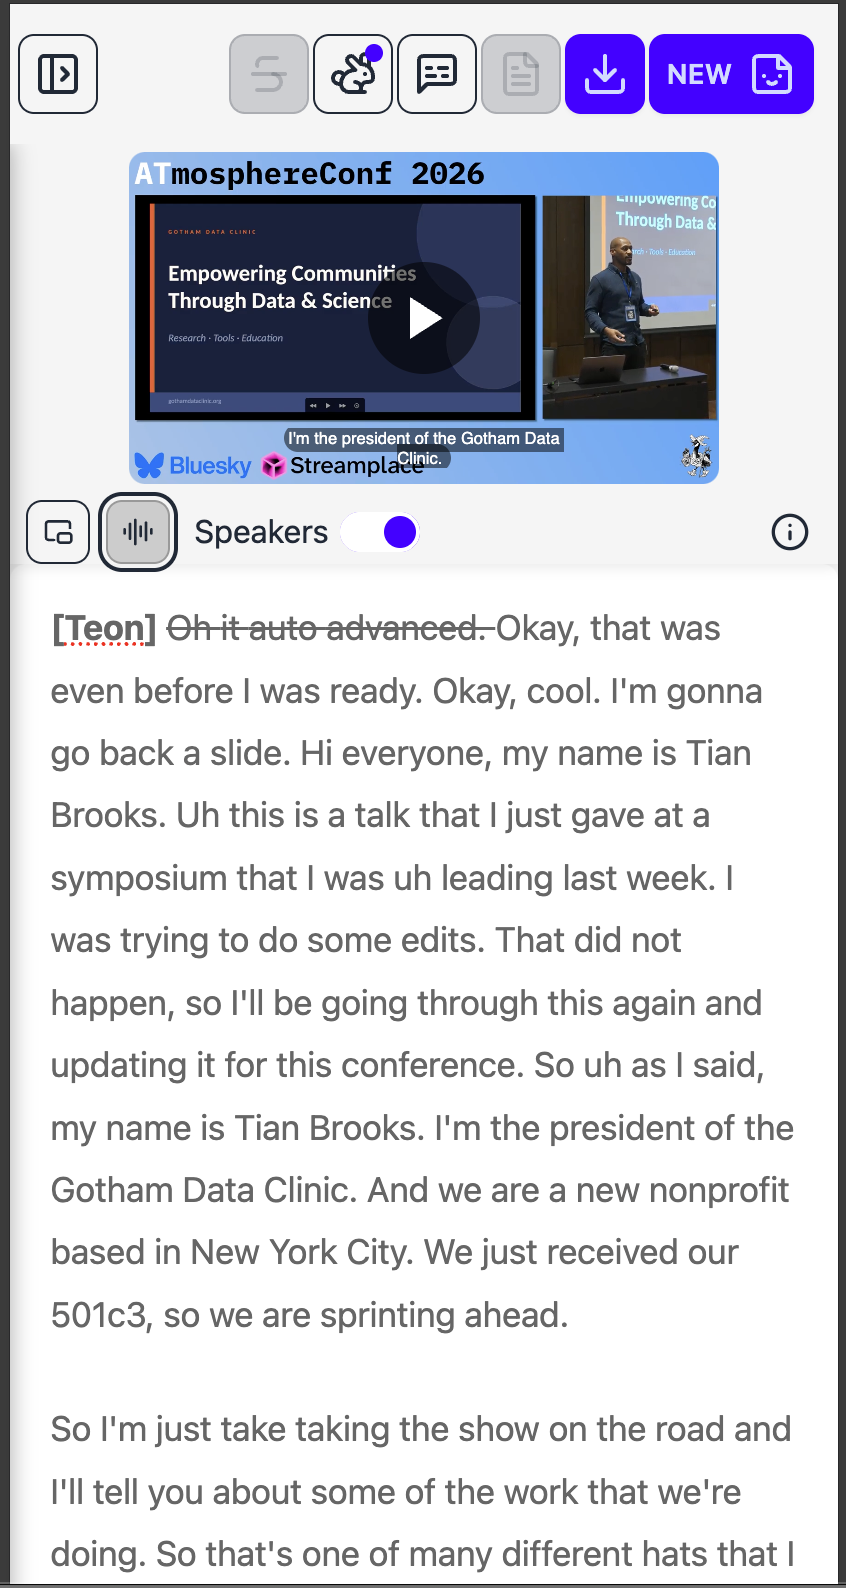
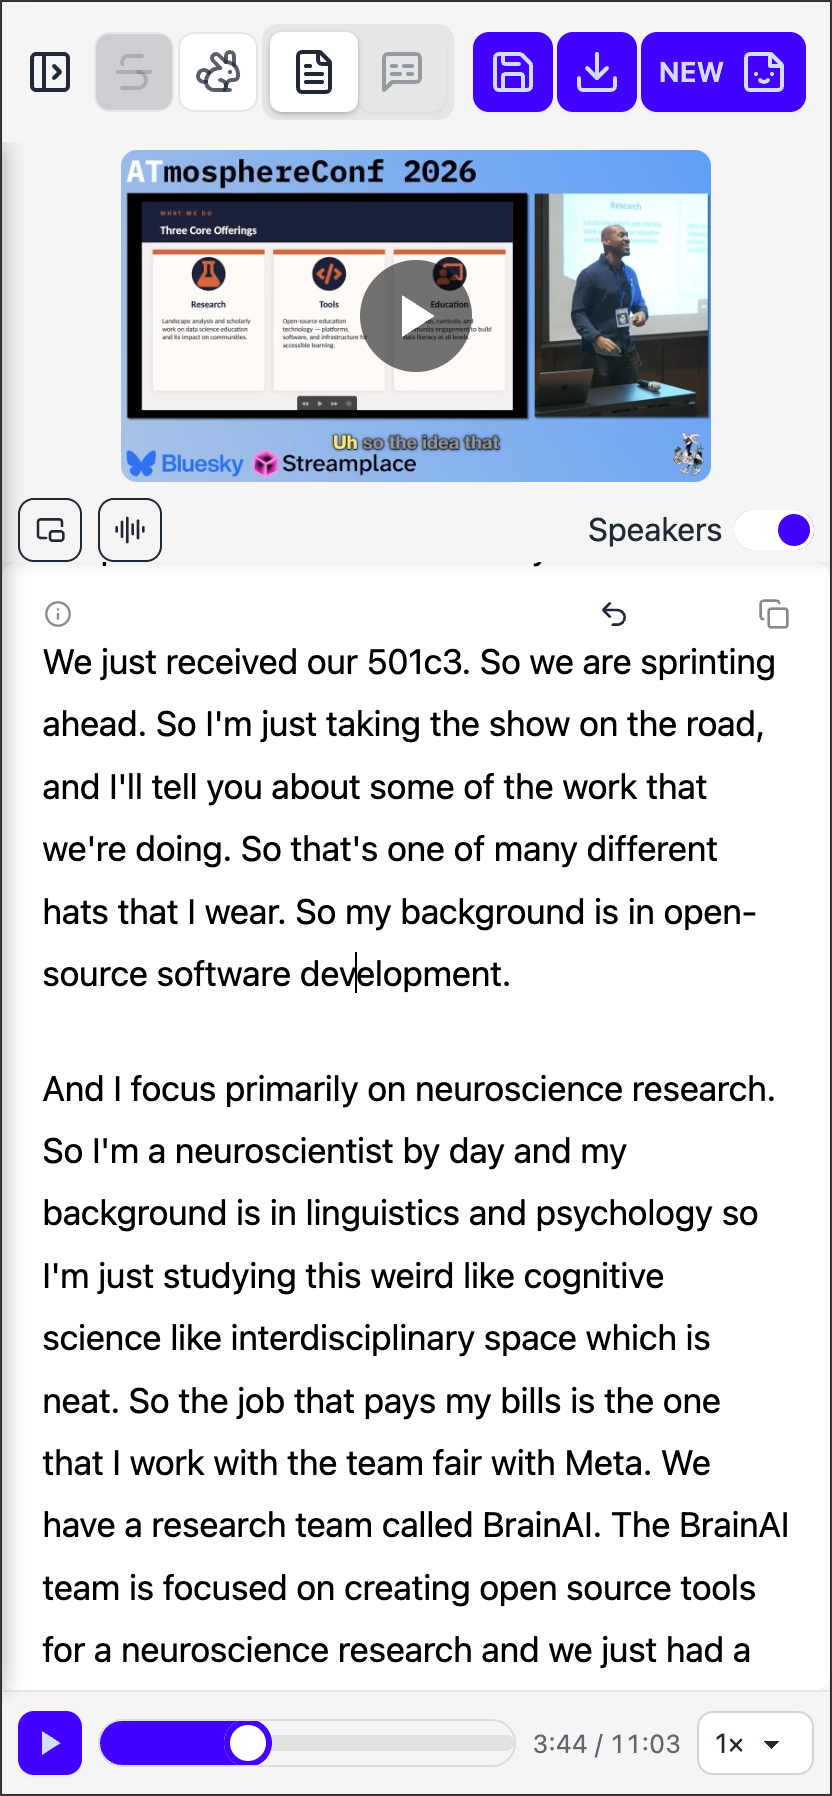
README screenshots refreshed for the 1.3.x UI (#518)
Twelve slots re-shot against the current release; two additions the
README never had — the project library (autosave, Recents, the row
menu), which postdates every previous screenshot, and the paragraph
timecodes toggle. Five dialog close-ups keep their older shots until
new ones exist: align, gap-removal advanced, karaoke captions, export
with burned-in captions, picture-in-picture.

diff --git a/README.md b/README.md
@@ -34,6 +34,12 @@ Paste an existing transcript and align it to the media to recover word‑level t
 
 <img alt="Align previously transcribed content" src="docs/images/align-previously-transcribed-content.png" width="640">
 
+### Your work lives in a project library
+
+Every transcript is a project: edits autosave continuously, recent projects sit one click away in the sidebar, and each can be renamed, starred, duplicated, exported or deleted from its row menu.
+
+<img alt="The project library in the sidebar" src="docs/images/project-library.png" width="300">
+
 ### Edit, correct, search and replace
 
 Edit in the usual way — fix words, add punctuation, split and merge paragraphs. Find and replace across the whole transcript, with the active match highlighted.
@@ -78,9 +84,11 @@ Export edited media (WAV / MP3 / MP4 / WebM) with cuts, gap‑skips and playback
 
 ### A view that adapts to you
 
-Collapse the video, pop it out picture‑in‑picture, or work on a phone — the layout adapts.
+Collapse the video, pop it out picture‑in‑picture, or work on a phone — the layout adapts. Toggle paragraph timecodes on when you need them.
 
 <img alt="Flexible view" src="docs/images/flexible-view.png" width="700">
+
+<img alt="Paragraph timecodes toggled on" src="docs/images/toggle-timecodes.png" width="500">
 
 <img alt="Picture‑in‑picture" src="docs/images/picture-in-picture.png" width="500"> <img alt="Mobile compatible" src="docs/images/mobile-compatible.png" width="300">
 
